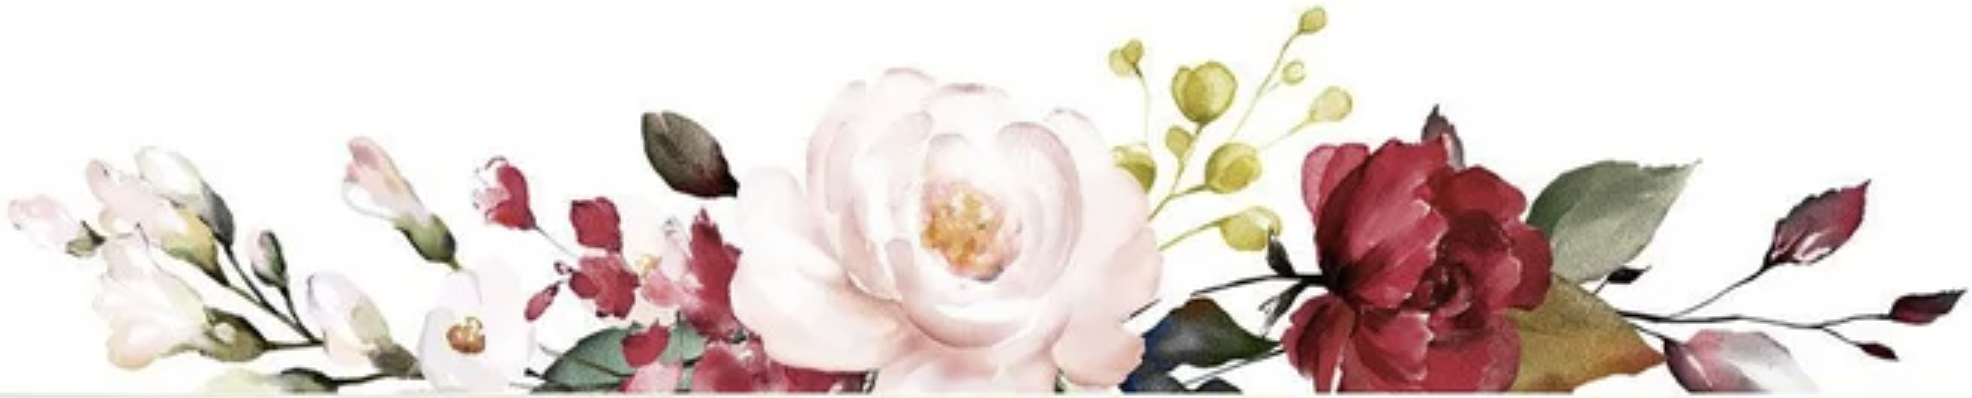
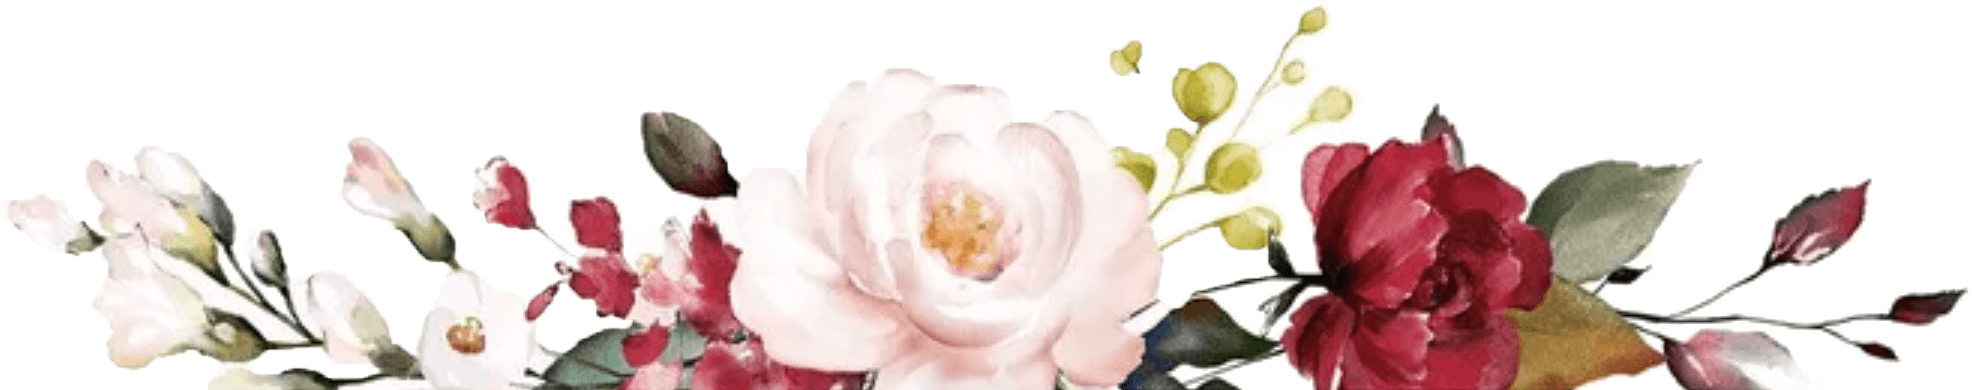
added alpha to header and footer flowers images

diff --git a/src/app/components/invitation/invitation.html b/src/app/components/invitation/invitation.html
@@ -1,24 +1,26 @@
 <div id="invitation__container">
   <img id="image__header" src="assets/images/header-flowers-full.png" />
-  <p class="text-lg mt-[300px] md:mt-[360px]">
-    The Wedding Of
-  </p>
-  <img id="image__couple" src="assets/images/couple-name.png" />
-  <p class="text-base">
-    Kepada Yang Terhormat
-  </p>
-  <p class="text-lg">
-    Tamu Undangan
-  </p>
-  <button pButton (click)="openInvitation()">
-    <span pButtonLabel>
-      <span class="icon">
-        <svg width="16px" height="16px" fill="white" aria-hidden="true" class="e-font-icon-svg e-far-envelope-open" viewBox="0 0 512 512" xmlns="http://www.w3.org/2000/svg">
-          <path d="M512 464c0 26.51-21.49 48-48 48H48c-26.51 0-48-21.49-48-48V200.724a48 48 0 0 1 18.387-37.776c24.913-19.529 45.501-35.365 164.2-121.511C199.412 29.17 232.797-.347 256 .003c23.198-.354 56.596 29.172 73.413 41.433 118.687 86.137 139.303 101.995 164.2 121.512A48 48 0 0 1 512 200.724V464zm-65.666-196.605c-2.563-3.728-7.7-4.595-11.339-1.907-22.845 16.873-55.462 40.705-105.582 77.079-16.825 12.266-50.21 41.781-73.413 41.43-23.211.344-56.559-29.143-73.413-41.43-50.114-36.37-82.734-60.204-105.582-77.079-3.639-2.688-8.776-1.821-11.339 1.907l-9.072 13.196a7.998 7.998 0 0 0 1.839 10.967c22.887 16.899 55.454 40.69 105.303 76.868 20.274 14.781 56.524 47.813 92.264 47.573 35.724.242 71.961-32.771 92.263-47.573 49.85-36.179 82.418-59.97 105.303-76.868a7.998 7.998 0 0 0 1.839-10.967l-9.071-13.196z"></path>
-        </svg>
+  <div id="invitation__content">
+    <p class="text-lg">
+      The Wedding Of
+    </p>
+    <img id="image__couple" src="assets/images/couple-name.png" />
+    <p class="text-base">
+      Kepada Yang Terhormat
+    </p>
+    <p class="text-lg">
+      Tamu Undangan
+    </p>
+    <button pButton (click)="openInvitation()">
+      <span pButtonLabel>
+        <span class="icon">
+          <svg width="16px" height="16px" fill="white" aria-hidden="true" class="e-font-icon-svg e-far-envelope-open" viewBox="0 0 512 512" xmlns="http://www.w3.org/2000/svg">
+            <path d="M512 464c0 26.51-21.49 48-48 48H48c-26.51 0-48-21.49-48-48V200.724a48 48 0 0 1 18.387-37.776c24.913-19.529 45.501-35.365 164.2-121.511C199.412 29.17 232.797-.347 256 .003c23.198-.354 56.596 29.172 73.413 41.433 118.687 86.137 139.303 101.995 164.2 121.512A48 48 0 0 1 512 200.724V464zm-65.666-196.605c-2.563-3.728-7.7-4.595-11.339-1.907-22.845 16.873-55.462 40.705-105.582 77.079-16.825 12.266-50.21 41.781-73.413 41.43-23.211.344-56.559-29.143-73.413-41.43-50.114-36.37-82.734-60.204-105.582-77.079-3.639-2.688-8.776-1.821-11.339 1.907l-9.072 13.196a7.998 7.998 0 0 0 1.839 10.967c22.887 16.899 55.454 40.69 105.303 76.868 20.274 14.781 56.524 47.813 92.264 47.573 35.724.242 71.961-32.771 92.263-47.573 49.85-36.179 82.418-59.97 105.303-76.868a7.998 7.998 0 0 0 1.839-10.967l-9.071-13.196z"></path>
+          </svg>
+        </span>
+        <span>Buka Undangan</span><br>
       </span>
-      <span>Buka Undangan</span><br>
-    </span>
-  </button>
+    </button>
+  </div>
   <img id="image__footer" src="assets/images/footer-flowers-full.png" />
 </div>

diff --git a/src/app/components/invitation/invitation.scss b/src/app/components/invitation/invitation.scss
@@ -30,8 +30,20 @@ img {
   &__container {
     display: flex;
     flex-direction: column;
+    justify-content: space-between;
     gap: 32px;
     padding: 0px 16px;
+    max-width: 1000px;
+    margin: 0px auto;
+    height: 100%;
+    overflow: auto;
+  }
+
+  &__content {
+    display: flex;
+    flex-direction: column;
+    justify-content: space-between;
+    gap: 32px;
     max-width: 1000px;
     margin: 0px auto;
   }
@@ -43,19 +55,12 @@ img {
     max-width: 800px;
     width: 100vw;
     mix-blend-mode: multiply;
-    position: fixed;
-    left: 50%;
-    transform: translateX(-50%);
   }
 
   &__footer {
     max-width: 800px;
     width: 100vw;
     mix-blend-mode: multiply;
-    position: fixed;
-    bottom: 0px;
-    left: 50%;
-    transform: translateX(-50%);
   }
   
   &__couple {

diff --git a/src/app/components/invitation/invitation.ts b/src/app/components/invitation/invitation.ts
@@ -1,4 +1,4 @@
-import { Component, output, OutputEmitterRef, signal, WritableSignal } from '@angular/core';
+import { Component, output, OutputEmitterRef } from '@angular/core';
 import { ButtonModule } from 'primeng/button';
 
 @Component({
